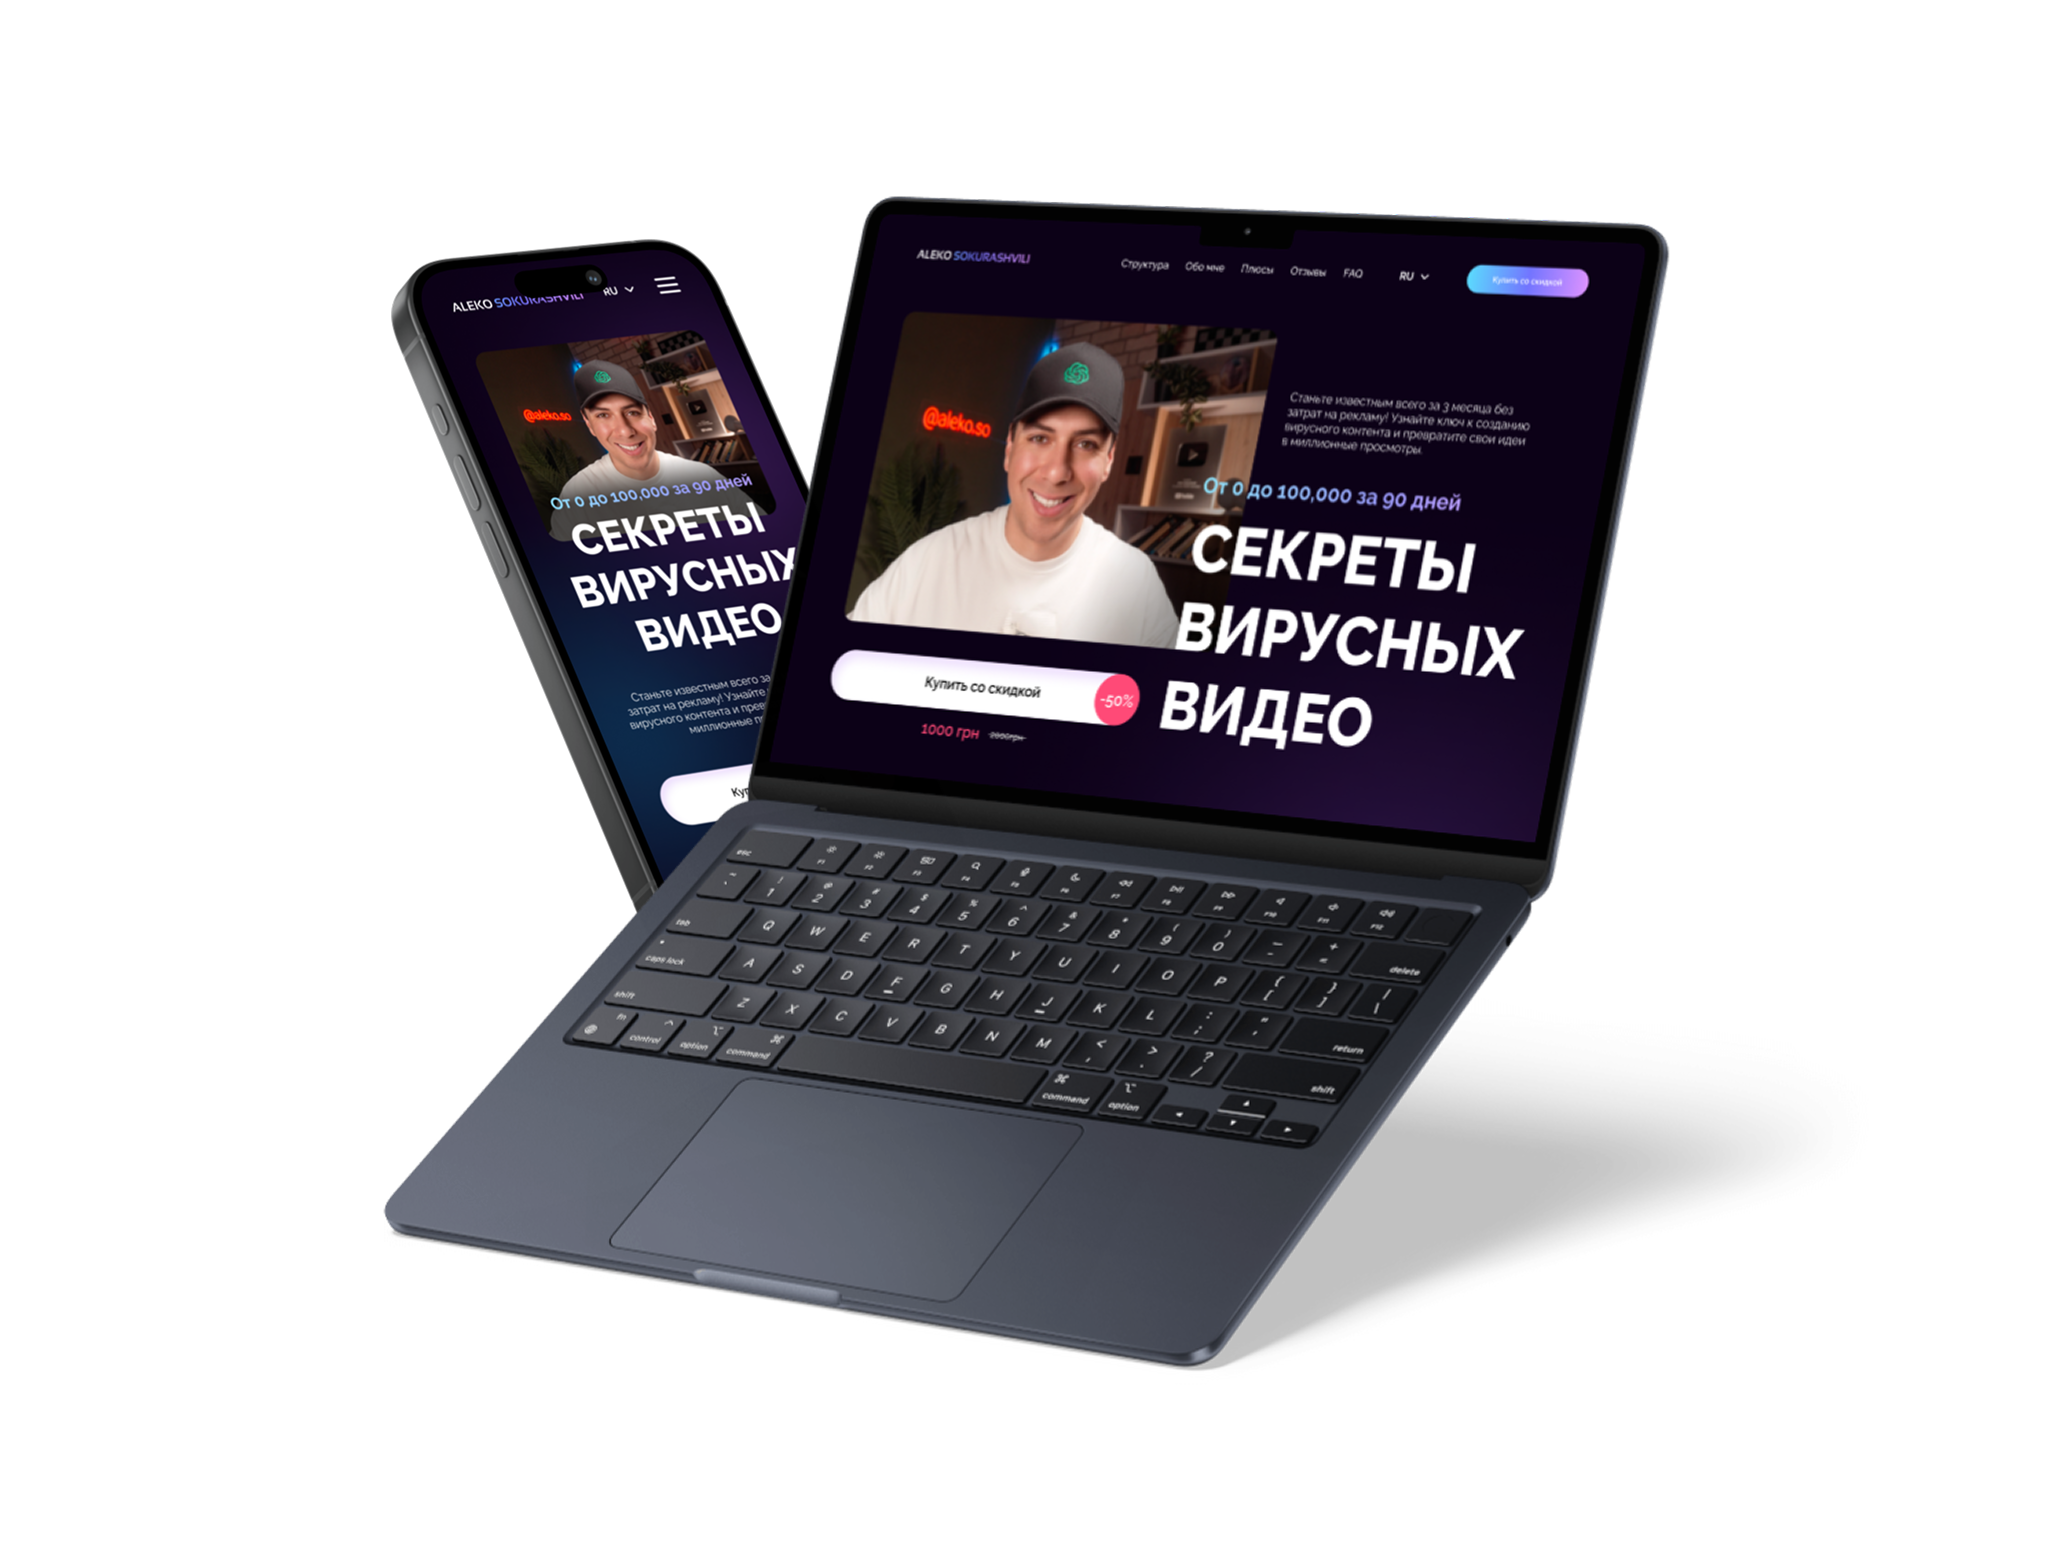
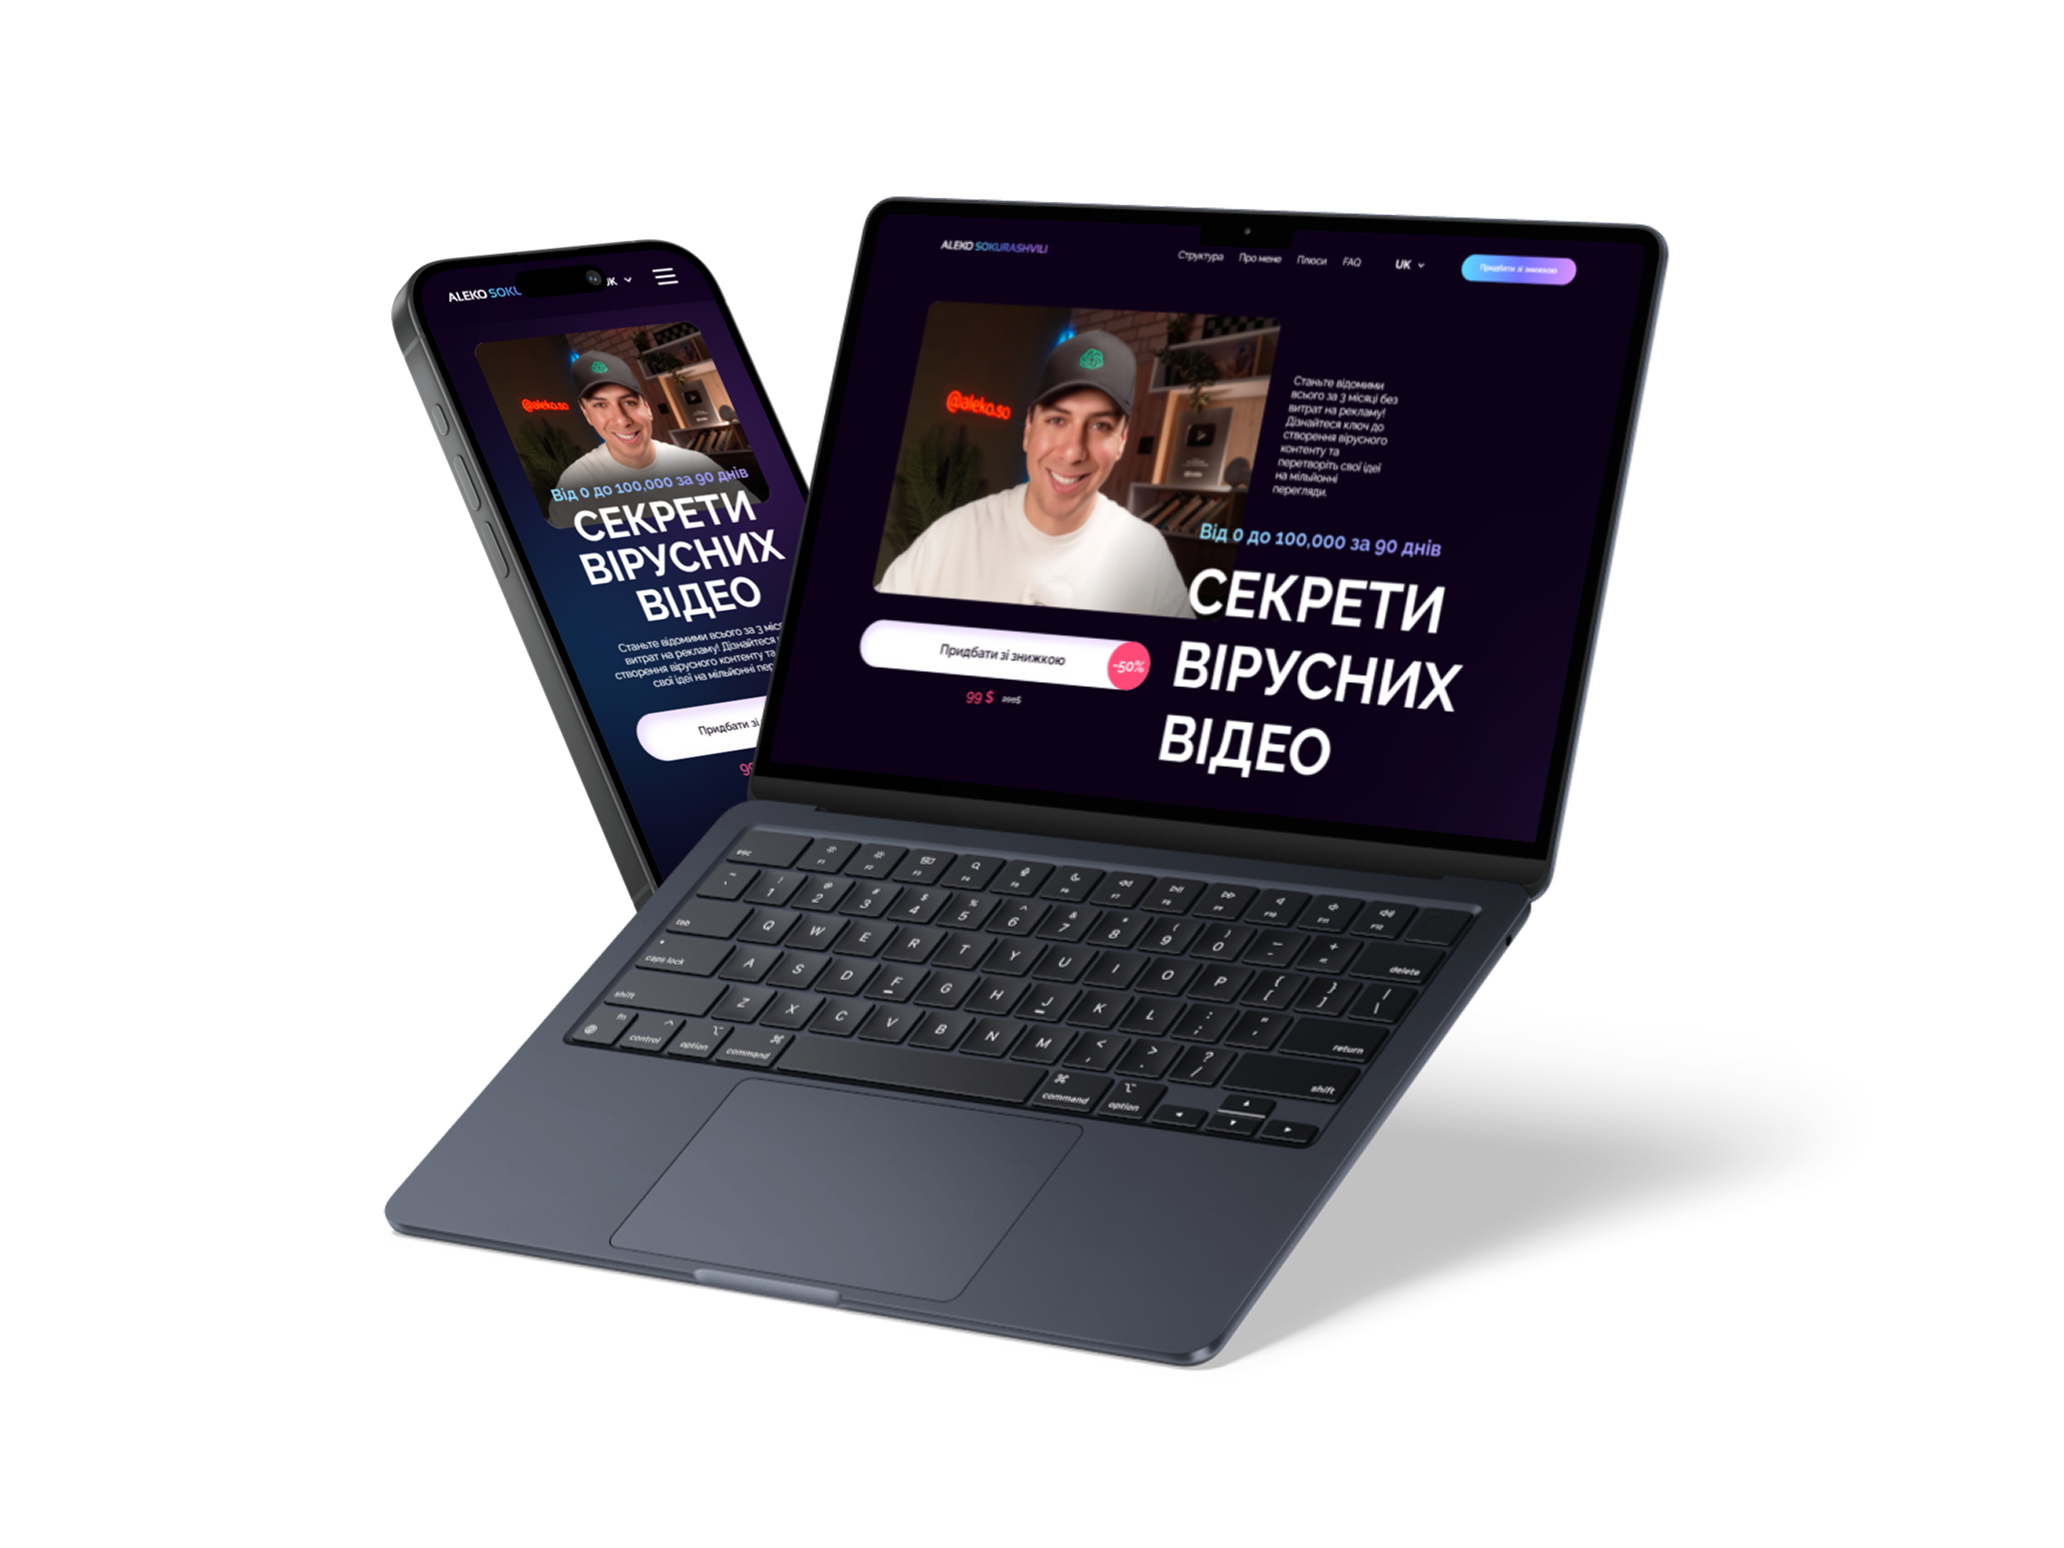
updated slide images

Changed region(s): [[0.2171, 0.155, 0.7752, 0.5581]]

diff --git a/src/components/homePage/hero/Hero.tsx b/src/components/homePage/hero/Hero.tsx
@@ -108,7 +108,7 @@ export default function Hero() {
           gradient: "bg-[linear-gradient(90deg,#FFFFFF_30.2%,#73C5FF_59.69%)]",
         },
       },
-      mainImage: "/images/homePage/hero/slideTwo.png",
+      mainImage: "/images/homePage/hero/slideThree.png",
       title: t("slideTwo.title"),
       description: t("slideTwo.description"),
       button: t("slideTwo.button"),
@@ -149,7 +149,7 @@ export default function Hero() {
           gradient: "bg-[linear-gradient(90deg,#FFFFFF_30.2%,#6A99FF_59.69%)]",
         },
       },
-      mainImage: "/images/homePage/hero/slideTwo.png",
+      mainImage: "/images/homePage/hero/slideFour.png",
       title: t("slideTwo.title"),
       description: t("slideTwo.description"),
       button: t("slideTwo.button"),
@@ -190,7 +190,7 @@ export default function Hero() {
           gradient: "bg-[linear-gradient(90deg,#FFFFFF_30.2%,#BFFF9F_59.69%)]",
         },
       },
-      mainImage: "/images/homePage/hero/slideTwo.png",
+      mainImage: "/images/homePage/hero/slideFive.png",
       title: t("slideTwo.title"),
       description: t("slideTwo.description"),
       button: t("slideTwo.button"),
@@ -231,7 +231,7 @@ export default function Hero() {
           gradient: "bg-[linear-gradient(90deg,#FFFFFF_30.2%,#FBC702_59.69%)]",
         },
       },
-      mainImage: "/images/homePage/hero/slideTwo.png",
+      mainImage: "/images/homePage/hero/slideSix.png",
       title: t("slideTwo.title"),
       description: t("slideTwo.description"),
       button: t("slideTwo.button"),
@@ -272,7 +272,7 @@ export default function Hero() {
           gradient: "bg-[linear-gradient(90deg,#FFFFFF_30.2%,#FFD097_59.69%)]",
         },
       },
-      mainImage: "/images/homePage/hero/slideTwo.png",
+      mainImage: "/images/homePage/hero/slideSeven.png",
       title: t("slideTwo.title"),
       description: t("slideTwo.description"),
       button: t("slideTwo.button"),
@@ -313,7 +313,7 @@ export default function Hero() {
           gradient: "bg-[linear-gradient(90deg,#FFFFFF_30.2%,#FF95A0_59.69%)]",
         },
       },
-      mainImage: "/images/homePage/hero/slideTwo.png",
+      mainImage: "/images/homePage/hero/slideEight.png",
       title: t("slideTwo.title"),
       description: t("slideTwo.description"),
       button: t("slideTwo.button"),

diff --git a/src/components/homePage/hero/HeroSlideDecorations.tsx b/src/components/homePage/hero/HeroSlideDecorations.tsx
@@ -110,7 +110,7 @@ export default function HeroSlideDecorations({
         </motion.div>
       </motion.div>
 
-      <motion.div className="absolute -z-10 left-[-52px] lg:left-auto lg:right-[-134px] bottom-[155px] lg:bottom-[-39px] w-[586px] lg:w-[1032px] h-auto aspect-[2064/1548]">
+      <motion.div className="absolute -z-10 left-[calc(50%-232px)] lg:left-auto lg:right-[-134px] bottom-[155px] md:bottom-[55px] lg:bottom-[-39px] w-[586px] lg:w-[1032px] h-auto aspect-[2064/1548]">
         <motion.div
           initial="hidden"
           whileInView="visible"
